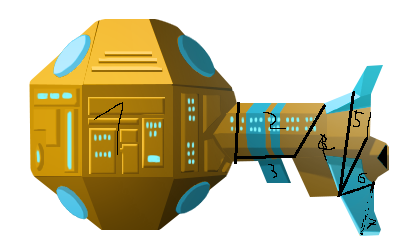
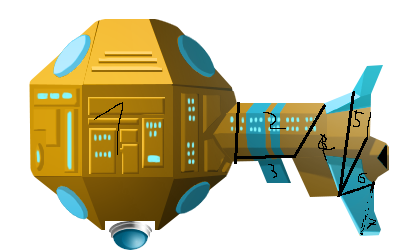
weak nr 4

Changed region(s): [[0.24, 0.868, 0.39, 1.0]]

diff --git a/data/carrier.js b/data/carrier.js
@@ -140,8 +140,14 @@ var carrier = {
 		],	
 			
 		weak_points: [
-				{x:10,y:10,rotate:0},
-				{x:10,y:20,rotate:0}
+				{x:124,y:19,rotate:0},
+				{x:31,y:126,rotate:270},
+				{x:130,y:229,rotate:1800},
+				{x:347,y:212,rotate:220},
+				{x:375,y:112,rotate:90},
+				{x:303,y:95,rotate:0},
+				{x:260,y:95,rotate:0},
+				{x:243,y:171,rotate:180}
 		],
 		hangar_positions: [
 			{x:0,y:0}
